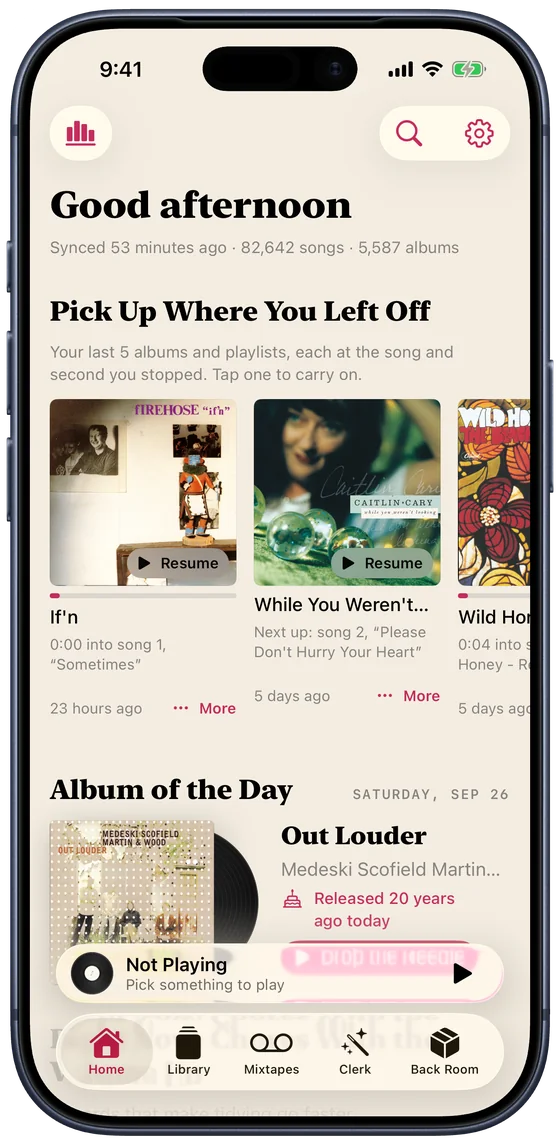
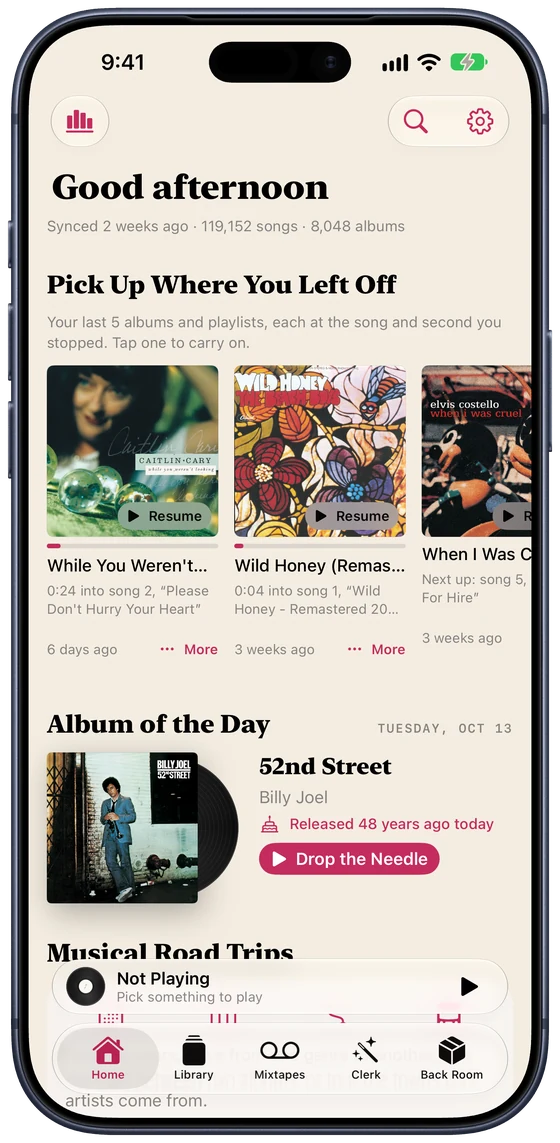
Friday Box and Pop-Up Facts; fresh Home and Mixtapes; privacy update

diff --git a/index.html b/index.html
@@ -34,7 +34,7 @@
       <span class="brand-mark" aria-hidden="true"></span><b>Crate</b>
     </a>
     <nav class="nav" aria-label="Sections">
-      <a href="#duo">iPhone Duo</a><a href="#clerk">The Clerk</a><a href="#roadtrips">Road Trips</a><a href="#mixtapes">Mixtapes</a><a href="#liner">Liner Notes</a><a href="#artists">Artists</a><a href="#wander">Wander</a><a href="#stats">Stats</a><a href="#looks">Looks</a><a href="support.html">Support</a><a class="discord" data-discord href="support.html#community"><svg viewBox="0 0 24 24" aria-hidden="true" fill="currentColor"><path d="M20.3 4.4A19.8 19.8 0 0 0 15.4 3l-.6 1.3a18.4 18.4 0 0 0-5.6 0L8.6 3a19.7 19.7 0 0 0-4.9 1.5C.6 9.1-.3 13.6.1 18.1a19.9 19.9 0 0 0 6 3l1.3-2.1a12.9 12.9 0 0 1-2-1l.5-.4a14.2 14.2 0 0 0 12.2 0l.5.4a12.9 12.9 0 0 1-2.1 1l1.3 2.1a19.8 19.8 0 0 0 6-3c.5-5.2-.8-9.7-3.5-13.7ZM8.3 15.3c-1.2 0-2.2-1.1-2.2-2.4s1-2.4 2.2-2.4 2.2 1.1 2.2 2.4-1 2.4-2.2 2.4Zm7.4 0c-1.2 0-2.2-1.1-2.2-2.4s1-2.4 2.2-2.4 2.2 1.1 2.2 2.4-1 2.4-2.2 2.4Z"/></svg>Discord</a>
+      <a href="#duo">iPhone Duo</a><a href="#clerk">The Clerk</a><a href="#roadtrips">Road Trips</a><a href="#fridaybox">Friday Box</a><a href="#mixtapes">Mixtapes</a><a href="#liner">Liner Notes</a><a href="#artists">Artists</a><a href="#wander">Wander</a><a href="#stats">Stats</a><a href="#looks">Looks</a><a href="support.html">Support</a><a class="discord" data-discord href="support.html#community"><svg viewBox="0 0 24 24" aria-hidden="true" fill="currentColor"><path d="M20.3 4.4A19.8 19.8 0 0 0 15.4 3l-.6 1.3a18.4 18.4 0 0 0-5.6 0L8.6 3a19.7 19.7 0 0 0-4.9 1.5C.6 9.1-.3 13.6.1 18.1a19.9 19.9 0 0 0 6 3l1.3-2.1a12.9 12.9 0 0 1-2-1l.5-.4a14.2 14.2 0 0 0 12.2 0l.5.4a12.9 12.9 0 0 1-2.1 1l1.3 2.1a19.8 19.8 0 0 0 6-3c.5-5.2-.8-9.7-3.5-13.7ZM8.3 15.3c-1.2 0-2.2-1.1-2.2-2.4s1-2.4 2.2-2.4 2.2 1.1 2.2 2.4-1 2.4-2.2 2.4Zm7.4 0c-1.2 0-2.2-1.1-2.2-2.4s1-2.4 2.2-2.4 2.2 1.1 2.2 2.4-1 2.4-2.2 2.4Z"/></svg>Discord</a>
     </nav>
   </header>
 
@@ -51,8 +51,8 @@
       </div>
     </div>
     <div class="hero-art">
-      <picture><source srcset="img/ipad-home-dark.webp" media="(prefers-color-scheme: dark)"><img class="pad" src="img/ipad-home.webp" width="1100" height="1435" alt="Crate on iPad: the Home screen with Album of the Day, a painted record room, and the sidebar of crates, boxes and records to pick up"></picture>
-      <picture><source srcset="img/iphone-home-dark.webp" media="(prefers-color-scheme: dark)"><img class="phone" src="img/iphone-home.webp" width="560" height="1145" alt="Crate on iPhone: Good morning, with albums to pick up where you left off and today's Album of the Day"></picture>
+      <picture><source srcset="img/ipad-home-dark.webp" media="(prefers-color-scheme: dark)"><img class="pad" src="img/ipad-home.webp" width="1100" height="1435" alt="Crate on iPad: Home with Album of the Day and The Friday Box, beside the sidebar of every room and your mixtapes and playlists"></picture>
+      <picture><source srcset="img/iphone-home-dark.webp" media="(prefers-color-scheme: dark)"><img class="phone" src="img/iphone-home.webp" width="560" height="1143" alt="Crate on iPhone: Good afternoon, with albums to pick up where you left off and today's Album of the Day"></picture>
     </div>
   </section>
   <figure class="reel">
@@ -151,11 +151,12 @@
         <div class="label">Smart playlists, on tape</div>
         <h2>Mixtapes that keep themselves up to date.</h2>
         <p>Set the rules once, like "added in the last month" or "the '90s and not played lately", and the tape changes as your library does. Describe one in a sentence and Apple Intelligence writes the rules for you to check.</p>
+        <p>Playlists sit beside them, as burned discs: any songs, in your order, made by hand. Your Music app playlists play here too, in boxes of your own.</p>
         <p class="soft">Every tape gets a painted cover and a label in your hand. Pick a length from a C46 to a C120 and it splits into Side A and Side B, with a printed insert of liner notes. Crate can also copy it into the Music app as an ordinary playlist, so it follows you to every Apple device and the car.</p>
       </div>
       <div class="devices">
-        <picture><source srcset="img/ipad-mixtapes-dark.webp" media="(prefers-color-scheme: dark)"><img class="pad" src="img/ipad-mixtapes.webp" width="1100" height="1435" alt="The Mixtapes room on iPad: a painted bedroom with a tape deck and a shelf for cassettes, above your boxes of mixtapes"></picture>
-        <picture><source srcset="img/iphone-mixtapes-dark.webp" media="(prefers-color-scheme: dark)"><img class="phone" src="img/iphone-mixtapes.webp" width="560" height="1145" alt="Suggested mixtapes on iPhone: Recently Added, Forgotten Favorites, The '90s, Epics and Deep Cuts"></picture>
+        <picture><source srcset="img/ipad-mixtapes-dark.webp" media="(prefers-color-scheme: dark)"><img class="pad" src="img/ipad-mixtapes.webp" width="1100" height="1435" alt="The Mixtapes room on iPad: a painted bedroom with a tape deck and cassettes on the shelf, above your mixtapes and playlists"></picture>
+        <picture><source srcset="img/iphone-mixtapes-dark.webp" media="(prefers-color-scheme: dark)"><img class="phone" src="img/iphone-mixtapes.webp" width="560" height="1143" alt="Mixtapes and playlists on iPhone: Recently Added and Forgotten Favorites on tape, Road Songs on a burned disc, and The '90s"></picture>
       </div>
     </div>
   </section>
@@ -176,6 +177,21 @@
     </div>
   </section>
 
+  <section class="divider alt" id="popups" data-tab="Pop-Up Facts">
+    <div class="row flip">
+      <div class="copy">
+        <div class="label">Pop-Up Facts</div>
+        <h2>The story behind the song, while it plays.</h2>
+        <p>Like the music videos you grew up on: every half minute a bubble pops up over Now Playing with how the song was written, who played on it, what happened in the studio. Each one says where it came from, and a tap opens it there.</p>
+        <p class="soft">On the Tour Bus, every town you reach sends a postcard with its picture, and they pile up on the trip to flip through.</p>
+      </div>
+      <div class="devices two-phones">
+        <picture><source srcset="img/iphone-popup-dark.webp" media="(prefers-color-scheme: dark)"><img class="phone" src="img/iphone-popup.webp" width="560" height="1143" loading="lazy" alt="Now Playing on iPhone: Big Shot by Billy Joel, with a Pop-Up Fact over the record about the song Rosalinda's Eyes"></picture>
+        <picture><source srcset="img/iphone-postcard-dark.webp" media="(prefers-color-scheme: dark)"><img class="phone" src="img/iphone-postcard.webp" width="560" height="1143" loading="lazy" alt="A postcard from Memphis on the Tour Bus, over Now Playing"></picture>
+      </div>
+    </div>
+  </section>
+
   <section class="divider" id="pickup" data-tab="Pick Up">
     <div class="row flip">
       <div class="copy">
@@ -190,7 +206,7 @@
         <p class="soft">They follow you: stop a record on your iPhone and it's waiting in your iPad's sidebar, and on CarPlay when you get in the car.</p>
       </div>
       <div class="devices">
-        <picture><source srcset="img/ipad-home-dark.webp" media="(prefers-color-scheme: dark)"><img class="pad" src="img/ipad-home.webp" width="1100" height="1435" loading="lazy" alt="Crate on iPad with Pick Up in the sidebar: the same five records"></picture>
+        <picture><source srcset="img/ipad-pickup-dark.webp" media="(prefers-color-scheme: dark)"><img class="pad" src="img/ipad-pickup.webp" width="1100" height="1435" loading="lazy" alt="Crate on iPad with Pick Up in the sidebar: the same five records"></picture>
         <img class="phone" src="img/iphone-pickup.webp" width="560" height="1145" loading="lazy" alt="Pick Up Where You Left Off on iPhone: While You Weren't Looking, next up song 2; Wild Honey, 0:04 into song 1">
       </div>
     </div>
@@ -270,6 +286,21 @@
     </div>
   </section>
 
+  <section class="divider" id="fridaybox" data-tab="Friday Box">
+    <div class="row flip">
+      <div class="copy">
+        <div class="label">New releases, every Friday</div>
+        <h2>A box of new records, picked through yours.</h2>
+        <p>Every Friday a box arrives with the week's new releases that connect to records you already own: their label, a musician or producer on them, an artist they sound like, the town they come from. Never just more from artists you have. Each record says why it's in the box.</p>
+        <p class="soft">Hear thirty seconds of every track, then sort the delivery: Add to Library, Later, or Not for Me. Coming Soon is a wall calendar of the records your artists have announced.</p>
+      </div>
+      <div class="devices">
+        <picture><source srcset="img/ipad-fridaybox-dark.webp" media="(prefers-color-scheme: dark)"><img class="pad" src="img/ipad-fridaybox.webp" width="1100" height="1435" loading="lazy" alt="The Friday Box on iPad: this week's new records standing in an open box, the front one lifted out, with why it's in the box and a listening post"></picture>
+        <picture><source srcset="img/iphone-fridaybox-dark.webp" media="(prefers-color-scheme: dark)"><img class="phone" src="img/iphone-fridaybox.webp" width="560" height="1143" loading="lazy" alt="The Friday Box on iPhone: DIGITiSE by HAAi lifted out of the box, in the box because it's on Mute, like 8 of your records"></picture>
+      </div>
+    </div>
+  </section>
+
   <section class="divider far" id="stats" data-tab="Stats">
     <div class="row flip">
       <div class="copy">
@@ -306,7 +337,7 @@
       <figcaption>Home from top to bottom (Pick Up, Album of the Day, Right Now, Dig the Crate, the Back Room and more), changing look as it goes.</figcaption>
     </figure>
     <div class="rack">
-      <figure><img src="img/iphone-home.webp" width="560" height="1145" alt="Record Shop look" loading="lazy"><figcaption><b>Record Shop</b><span>Cream paper, raspberry and mustard</span></figcaption></figure>
+      <figure><img src="img/iphone-home.webp" width="560" height="1143" alt="Record Shop look" loading="lazy"><figcaption><b>Record Shop</b><span>Cream paper, raspberry and mustard</span></figcaption></figure>
       <figure><img src="img/iphone-look-jazzClub.webp" width="560" height="1145" alt="Jazz Club look in dark mode" loading="lazy"><figcaption><b>Jazz Club</b><span>Navy and brass, like an old sleeve</span></figcaption></figure>
       <figure><img src="img/iphone-look-punkZine.webp" width="560" height="1145" alt="Punk Zine look" loading="lazy"><figcaption><b>Punk Zine</b><span>Photocopy black with a hot-pink tear</span></figcaption></figure>
       <figure><img src="img/iphone-look-soulRevue.webp" width="560" height="1145" alt="Soul Revue look" loading="lazy"><figcaption><b>Soul Revue</b><span>Warm '70s orange, brown and gold</span></figcaption></figure>

diff --git a/privacy.html b/privacy.html
@@ -25,7 +25,7 @@
     </nav>
   </header>
   <main class="doc">
-    <div class="updated">Last updated 11 October 2026</div>
+    <div class="updated">Last updated 13 October 2026</div>
     <h1>Privacy Policy</h1>
     <p class="lede">Crate has no accounts, no servers, no ads and no analytics. Your library, your crates and your listening stay on your devices and in your own iCloud. This page lists every place Crate sends anything, and why.</p>
 
@@ -45,10 +45,12 @@
           <tr><td>Apple Music</td><td>Always</td><td>Crate reads the Music library on your device and asks Apple's catalogue for covers, previews and records you don't own. Apple's privacy policy applies.</td></tr>
           <tr><td>Apple Intelligence</td><td>When you ask the Clerk for a playlist</td><td>Your request is read on your device. Harder requests may go to Apple's Private Cloud Compute, which Apple designs so that no one, including Apple, can keep or see them.</td></tr>
           <tr><td>Last.fm</td><td>Your account only if you connect it</td><td>Your Last.fm username, to read your scrobbles; with your permission, the songs you play in Crate are scrobbled to your account. Without an account, Crate still asks Last.fm about songs and artists by name: how listeners describe them (moods and genres), how many people play them, and their write-ups for Pop-Up Facts. Nothing about you is sent.</td></tr>
-          <tr><td>MusicBrainz</td><td>Artist pages, covers and the Tour Bus</td><td>Artist and album names, to sort a discography, find who wrote a song and where an artist comes from. If you add a contact email in Settings, it's sent to MusicBrainz only, as their rules ask.</td></tr>
+          <tr><td>MusicBrainz</td><td>Artist pages, covers, the Tour Bus and the Friday Box</td><td>Artist and album names, to sort a discography, find who wrote a song and where an artist comes from. For the Friday Box, the names of record labels, players and artists from your records, to find the week's new releases connected to them. If you add a contact email in Settings, it's sent to MusicBrainz only, as their rules ask.</td></tr>
+          <tr><td>Cover Art Archive</td><td>The Friday Box, and covers Apple doesn't have</td><td>Nothing about you. Crate asks for a record's cover by its MusicBrainz number.</td></tr>
           <tr><td>Wikidata</td><td>The Tour Bus</td><td>Nothing about you. Crate asks where a town is (its place on the map), for towns your artists come from.</td></tr>
           <tr><td>ReccoBeats</td><td>Learning how your songs sound</td><td>Song identifiers (the song's ISRC code), to look up tempo, key and energy.</td></tr>
-          <tr><td>Pitchfork and Wikipedia</td><td>The Back Room, Liner Notes and Pop-Up Facts</td><td>Nothing about you. Crate reads Pitchfork's public review feed and Wikipedia's articles: review scores, the story of a record, and facts about songs, artists and towns, asked for by their names.</td></tr>
+          <tr><td>Pitchfork and Wikipedia</td><td>The Back Room, Reviews, Liner Notes and Pop-Up Facts</td><td>Nothing about you. Crate reads Pitchfork's public review feed and Wikipedia's articles: review scores, the story of a record, and facts about songs, artists and towns, asked for by their names.</td></tr>
+          <tr><td>The publication that ran a review</td><td>Only when you open a review to read it</td><td>Nothing about you. Crate opens the review's page, as Safari would, and shows its text; that publication's own privacy policy applies to the visit.</td></tr>
           <tr><td>LRCLIB</td><td>When you open lyrics</td><td>The song's title, artist and length.</td></tr>
           <tr><td>Open-Meteo and Apple Maps</td><td>Only if you let Crate use where you are</td><td>Your location, rounded to about a kilometre, for the weather. Apple Maps tells Crate what kind of place you're in (a park, a beach), so Home can suggest music for it. You can turn location off at any time in Settings.</td></tr>
         </tbody>
